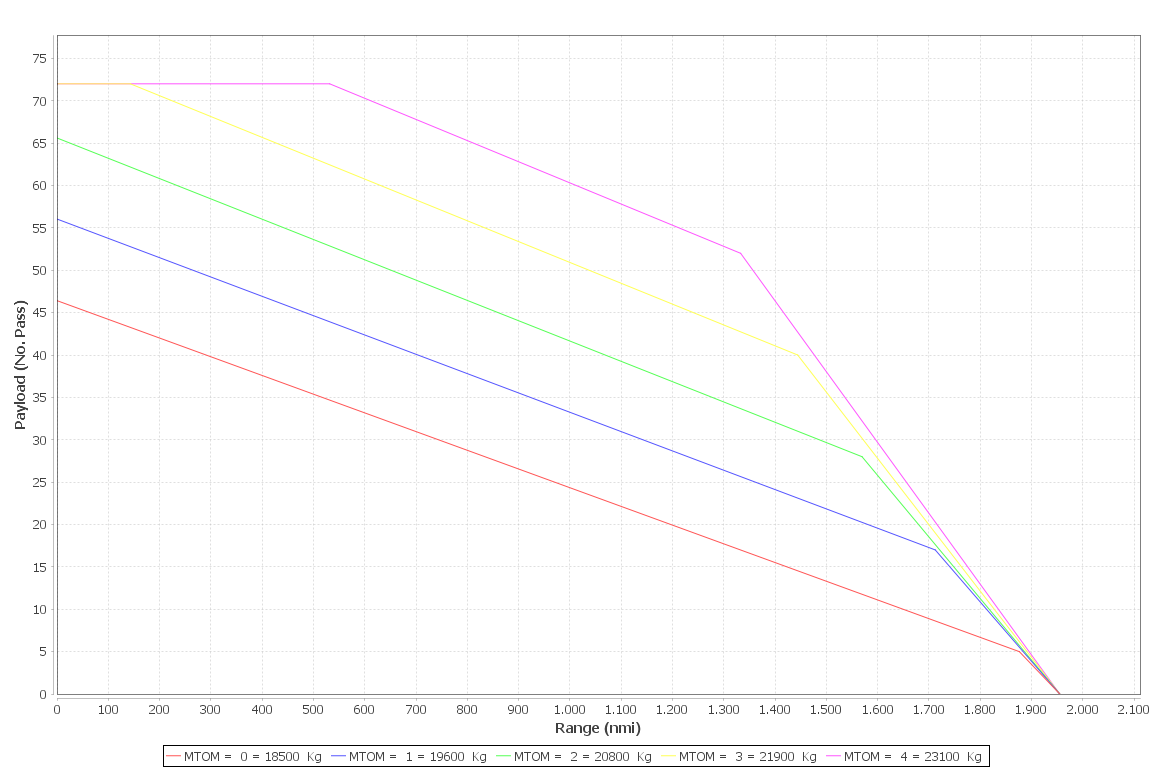
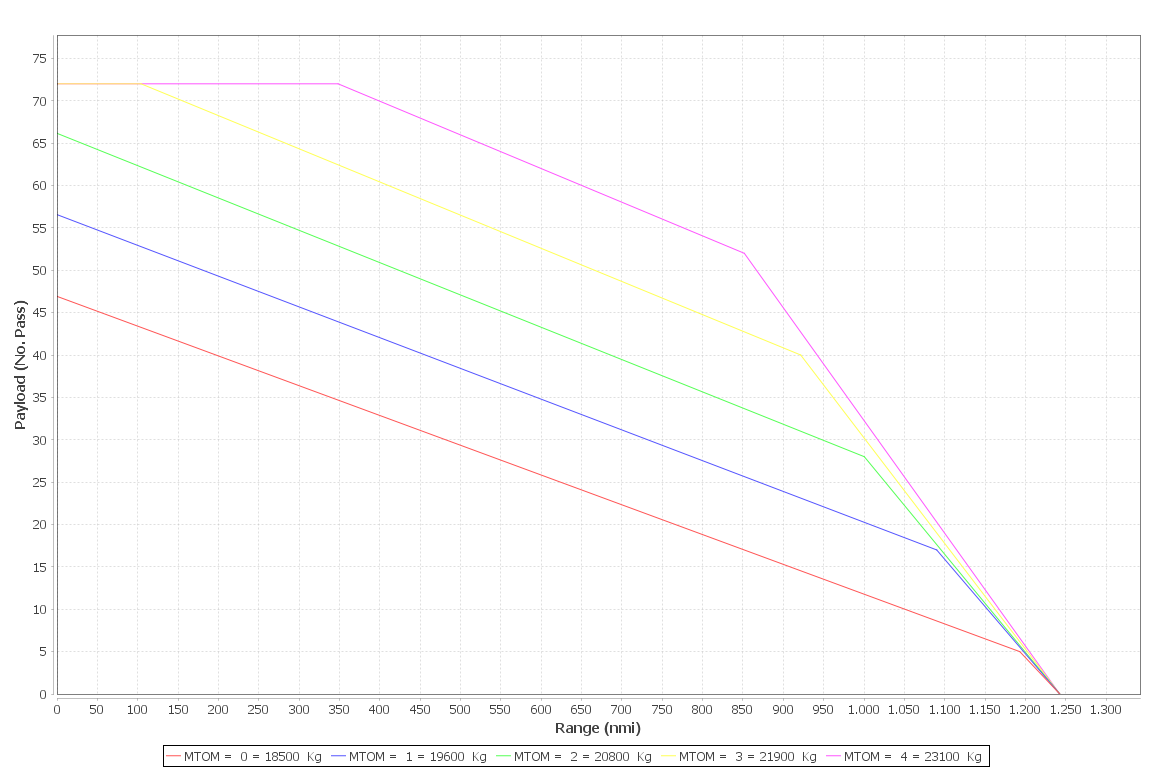
Changes into VC sandbox

diff --git a/JPADSandBox/src/sandbox/vc/PayloadRange/PayloadRangeCalcSA.java b/JPADSandBox/src/sandbox/vc/PayloadRange/PayloadRangeCalcSA.java
@@ -155,9 +155,7 @@ public class PayloadRangeCalcSA {
 		IOmanager.addElement(PayloadRangeEnum.ByPassRatio, Amount.valueOf(0.0, Unit.ONE), "Bypass ratio of the engine. If it has been chosen TURBOPROP type,"
 				+ " set this value equal to 0.0");
 		IOmanager.addElement(PayloadRangeEnum.Propeller_efficiency, Amount.valueOf(0.0, Unit.ONE),  "Propeller efficiency");
-		//
 		IOmanager.addElement(PayloadRangeEnum.Mean_maximum_thickness, Amount.valueOf(0.0, Unit.ONE), "Mean maximum thickness of the wing airfoils");
-		//		
 		IOmanager.addElement(PayloadRangeEnum.Current_lift_coefficient, Amount.valueOf(0.0, Unit.ONE), "Total lift coefficient");
 		IOmanager.addElement(PayloadRangeEnum.AspectRatio, Amount.valueOf(0.0, Unit.ONE),  "Wing aspect ratio");
 		IOmanager.addElement(PayloadRangeEnum.CD0, Amount.valueOf(0.0, Unit.ONE), "Aircraft drag coefficient at zero lift");
@@ -185,14 +183,13 @@ public class PayloadRangeCalcSA {
 
 		IOmanager.addElement(PayloadRangeEnum.Design_Payload, rangeMP, "It's the range with maximum payload");
 		IOmanager.addElement(PayloadRangeEnum.Max_Fuel_Range, rangeMF, "It's the range with maximum fuel mass");
-		IOmanager.addElement(PayloadRangeEnum.Max_Range, rangeMF, "It's the range without payload");
+		IOmanager.addElement(PayloadRangeEnum.Max_Range, rangeZP, "It's the range without payload");
 		IOmanager.addElement(PayloadRangeEnum.Design_Payload, maxPayloadMass, "It's the value of design payload mass");
 		IOmanager.addElement(PayloadRangeEnum.SFC, Amount.valueOf(sfc, sfcUnit), "Specific Fuel Consumption");
 		IOmanager.addElement(PayloadRangeEnum.Efficiency, Amount.valueOf(E, Unit.ONE), "Aerodynamic efficiency");
 
 		return IOmanager;
 	}
-
 
 
 	/**
@@ -226,7 +223,7 @@ public class PayloadRangeCalcSA {
 	 */
 	public static void writeToFile(
 			String filenamewithPathAndExt,
-			String rootElement,
+//			String rootElement,
 			DatabaseIOmanager<PayloadRangeEnum> inputManager,
 			DatabaseIOmanager<PayloadRangeEnum> outputManager) {
 
@@ -237,8 +234,6 @@ public class PayloadRangeCalcSA {
 		databaseWriter.writeDocument();
 	}
 
-
-	//------------------------------------Start Moved snippet-------------------------------------------------
 
 	public static HashMap<Double, AirplaneType> pLRangeAirplaneTypes() {
 		
@@ -283,17 +278,10 @@ public class PayloadRangeCalcSA {
 			FuelFractionDatabaseReader fuelFractionReader) throws ClassNotFoundException, HDF5LibraryException, NullPointerException {
 
 		DatabaseIOmanager<PayloadRangeEnum> inputManager = readFromFile(inputFileNamewithPathAndExt); 
-		
-//		System.out.println("airplaneType: " + pLRangeAirplaneTypes().get(inputManager.getValue(PayloadRangeEnum.AirplaneType).getEstimatedValue()));
-//		System.out.println("airplaneType - key: " + inputManager.getValue(PayloadRangeEnum.AirplaneType).getEstimatedValue());
-//		
-//		System.out.println("engineType: " + pLRangeEngineType().get(inputManager.getValue(PayloadRangeEnum.EngineType).getEstimatedValue()));
-//		System.out.println("airfoilType: " + pLRangeAirfoilType().get(inputManager.getValue(PayloadRangeEnum.AirfoilType).getEstimatedValue()));
-		
+				
 		AirplaneType airplaneType = pLRangeAirplaneTypes().get(inputManager.getValue(PayloadRangeEnum.AirplaneType).getEstimatedValue());
 		EngineTypeEnum engineType = pLRangeEngineType().get(inputManager.getValue(PayloadRangeEnum.EngineType).getEstimatedValue());
 		AirfoilTypeEnum airfoilType = pLRangeAirfoilType().get(inputManager.getValue(PayloadRangeEnum.AirfoilType).getEstimatedValue());
-		
 		Amount<Angle> sweepLEEquivalent = inputManager.getValue(PayloadRangeEnum.SweepLE);
 		Amount<Mass> maxTakeOffMass = (Amount<Mass>) inputManager.getValue(PayloadRangeEnum.Maximum_take_off_mass);
 		Amount<Mass> operatingEmptyMass = (Amount<Mass>) inputManager.getValue(PayloadRangeEnum.Operating_empty_mass);
@@ -303,10 +291,7 @@ public class PayloadRangeCalcSA {
 		double oswald = inputManager.getValue(PayloadRangeEnum.OswaldFactor).getEstimatedValue();
 		double ar 	  = inputManager.getValue(PayloadRangeEnum.AspectRatio).getEstimatedValue();
 		double cl 	  = inputManager.getValue(PayloadRangeEnum.Current_lift_coefficient).getEstimatedValue();
-
-
-		double tcMax = inputManager.getValue(PayloadRangeEnum.Mean_maximum_thickness).getEstimatedValue();// It never used
-
+		double tcMax = inputManager.getValue(PayloadRangeEnum.Mean_maximum_thickness).getEstimatedValue();
 		double altitude 	= inputManager.getValue(PayloadRangeEnum.Altitude).getEstimatedValue();
 		double eta 			= inputManager.getValue(PayloadRangeEnum.Propeller_efficiency).getEstimatedValue();
 		double currentMach 	= inputManager.getValue(PayloadRangeEnum.Mach_number).getEstimatedValue();
@@ -421,7 +406,7 @@ public class PayloadRangeCalcSA {
 				test.getSfc_current_mach(), 
 				(test.getCl()/test.getCd()));
 		
-		writeToFile(outputFileWithPathAndExt, "PayloadRange", inputManager, outputManager);
+		writeToFile(outputFileWithPathAndExt, inputManager, outputManager);
 				
 	} //--end executeStandalonePayloadRange
 	//
@@ -1769,17 +1754,6 @@ public class PayloadRangeCalcSA {
 
 		return vRange;
 	}
-
-	/******************************************************************************************
-	 * 
-	 */
-//	DatabaseIOmanager<PayloadRangeEnum> outputManager = initializeOutputManager(rangeMP,
-//			rangeMF, 
-//			rangeZP,
-//			maxPayloadMass,
-//			sfc,
-//			(cl/cd));
-//	//TODO create a method which writes the output 
 
 	/******************************************************************************************
 	 * Method that allows users to generate Range and Payload matrices to be used in 
